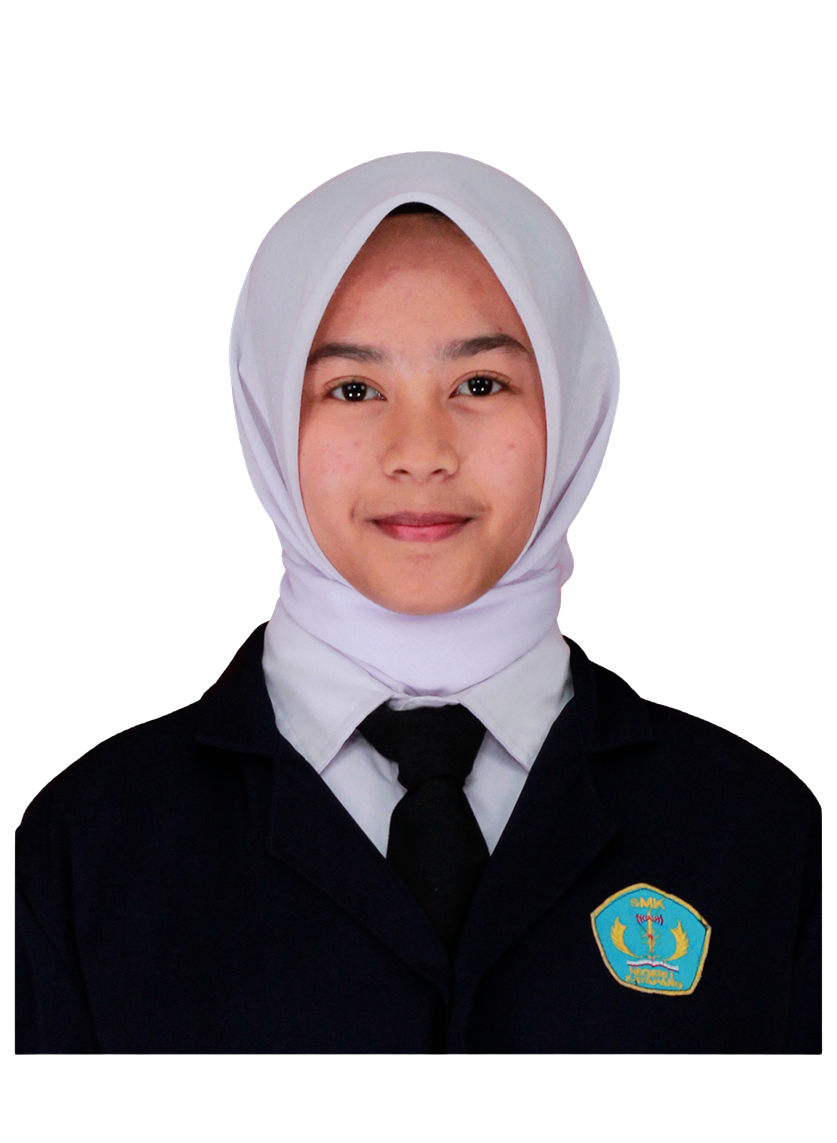
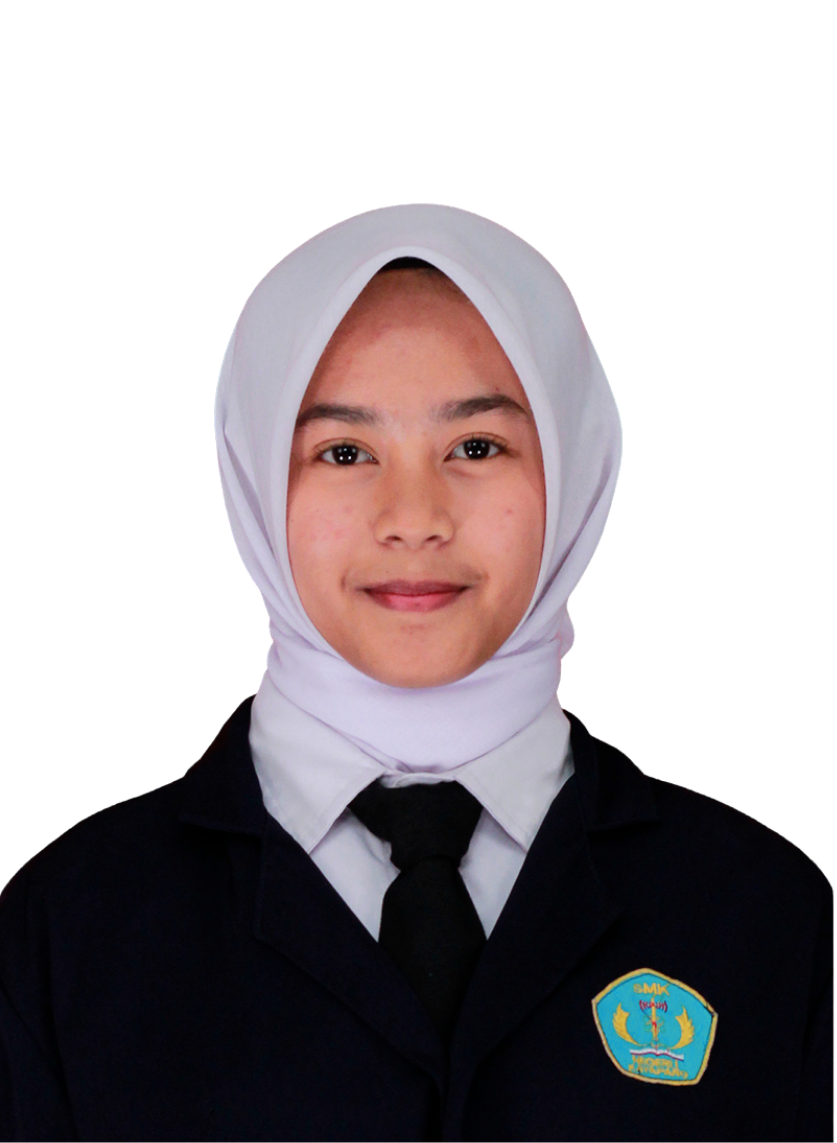
perubahan foto dan link url

Changed region(s): [[0.0, 0.1225, 1.0, 1.0]]

diff --git a/index.html b/index.html
@@ -64,9 +64,7 @@
 
       <!--==================== MAIN ====================-->
       <main class="main">
-         <!-- CUSTOM CURSOR -->
 
-         
          <!--==================== HOME SECTION ====================-->
          <section class="home section" id="home">
             <div class="blob-small"></div>
@@ -179,7 +177,7 @@
                      </article>
 
                      <article class="work__card swiper-slide">
-                        <a href="https://seblakteteh.site.je/" target="_blank" class="work__link">
+                        <a href="https://minishop-omega-khaki.vercel.app/" target="_blank" class="work__link">
                            <img src="assets/img/mini-shop.png" alt="Portofolio project preview" class="work__img">
 
                            <div class="work__arrow">
@@ -423,12 +421,16 @@
                         <img src="assets/img/skills-backend-7.svg" alt="Technical skills" class="skills__img">
                         <span class="skills__name">MySQL</span>
                      </li>
+                     <li class="skills__item">
+                        <img src="assets/img/skills-backend-1.svg" alt="Technical skills" class="skills__img">
+                        <span class="skills__name">Laravel</span>
+                     </li>
                   </ul>
 
                   <div class="blob-small"></div>
                </article>
 
-               <!-- <article class="skills__card">
+               <article class="skills__card">
                   <div class="skills__profession">
                      <i class="ri-pencil-ruler-2-line skills__icon"></i>
                      <h2 class="skills__title">Design</h2>
@@ -439,35 +441,10 @@
                         <img src="assets/img/skills-design-1.svg" alt="Technical skills" class="skills__img">
                         <span class="skills__name">Figma</span>
                      </li>
-
-                     <li class="skills__item">
-                        <img src="assets/img/skills-design-2.svg" alt="Technical skills" class="skills__img">
-                        <span class="skills__name">Blender</span>
-                     </li>
-
-                     <li class="skills__item">
-                        <img src="assets/img/skills-design-3.svg" alt="Technical skills" class="skills__img">
-                        <span class="skills__name">After effects</span>
-                     </li>
-
-                     <li class="skills__item">
-                        <img src="assets/img/skills-design-4.svg" alt="Technical skills" class="skills__img">
-                        <span class="skills__name">Photoshop</span>
-                     </li>
-
-                     <li class="skills__item">
-                        <img src="assets/img/skills-design-5.svg" alt="Technical skills" class="skills__img">
-                        <span class="skills__name">Ilustrator</span>
-                     </li>
-
-                     <li class="skills__item">
-                        <img src="assets/img/skills-design-6.svg" alt="Technical skills" class="skills__img">
-                        <span class="skills__name">Framer</span>
-                     </li>
                   </ul>
 
                   <div class="blob-small"></div>
-               </article> -->
+               </article>
 
             </div>
          </section>
@@ -545,7 +522,7 @@
 
                         <div class="contact__text">
                            <h3 class="contact__title">Lokasi</h3>
-                           <address class="contact__address">jln. Sukamenak, kp. Curug dog-dog 03/10</address>
+                           <address class="contact__address">jln. Sukamenak, kec. Margahayu, Kab. Bandung</address>
                         </div>
                      </div>
 

diff --git a/assets/js/main.js b/assets/js/main.js
@@ -96,9 +96,6 @@ servicesButtons.forEach(button => {
    })
 })
 
-/*=============== TESTIMONIALS OF DUPLICATE CARDS ===============*/ 
-
-
 /*=============== CONTACT EMAIL JS ===============*/ 
 const contactForm = document.getElementById('contact-form'),
       contactMessage = document.getElementById('contact-message')
@@ -152,8 +149,3 @@ const scrollActive = () => {
    })
 }
 window.addEventListener('scroll', scrollActive)
-
-/*=============== CUSTOM CURSOR ===============*/
-
-
-/*=============== SCROLLREVEAL ANIMATION ===============*/
